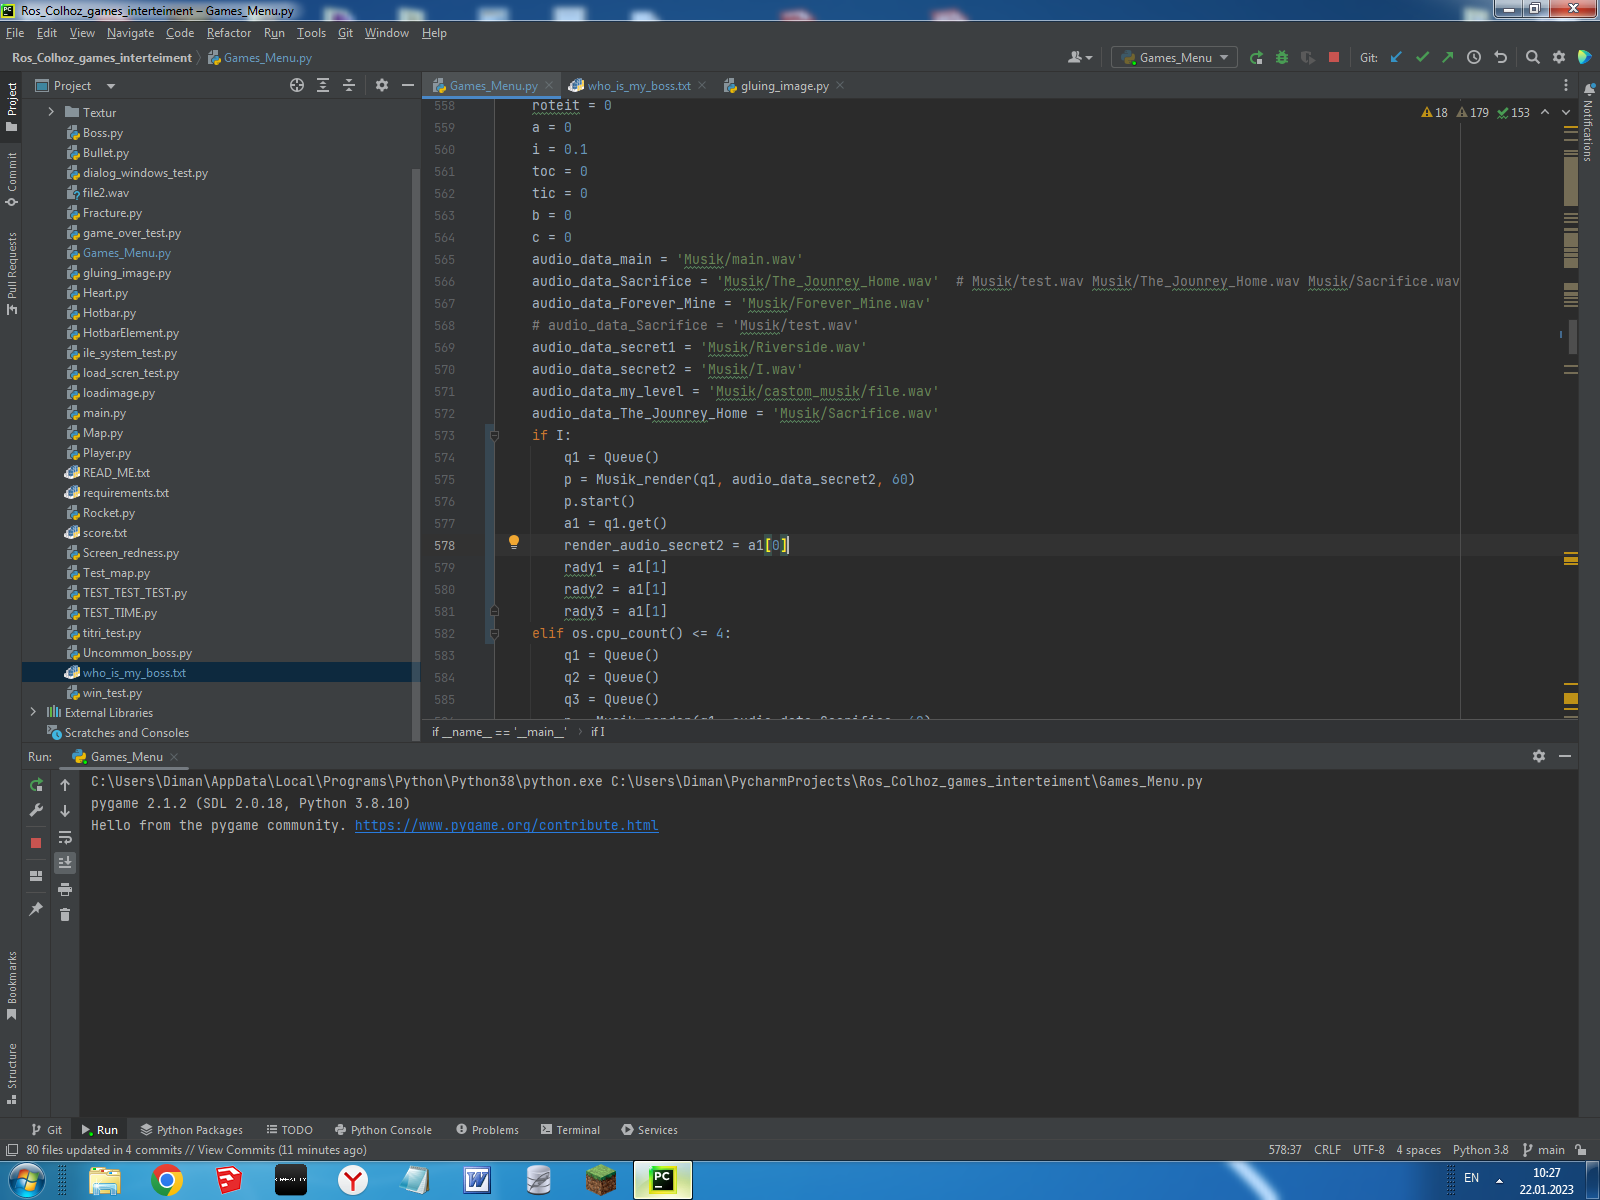
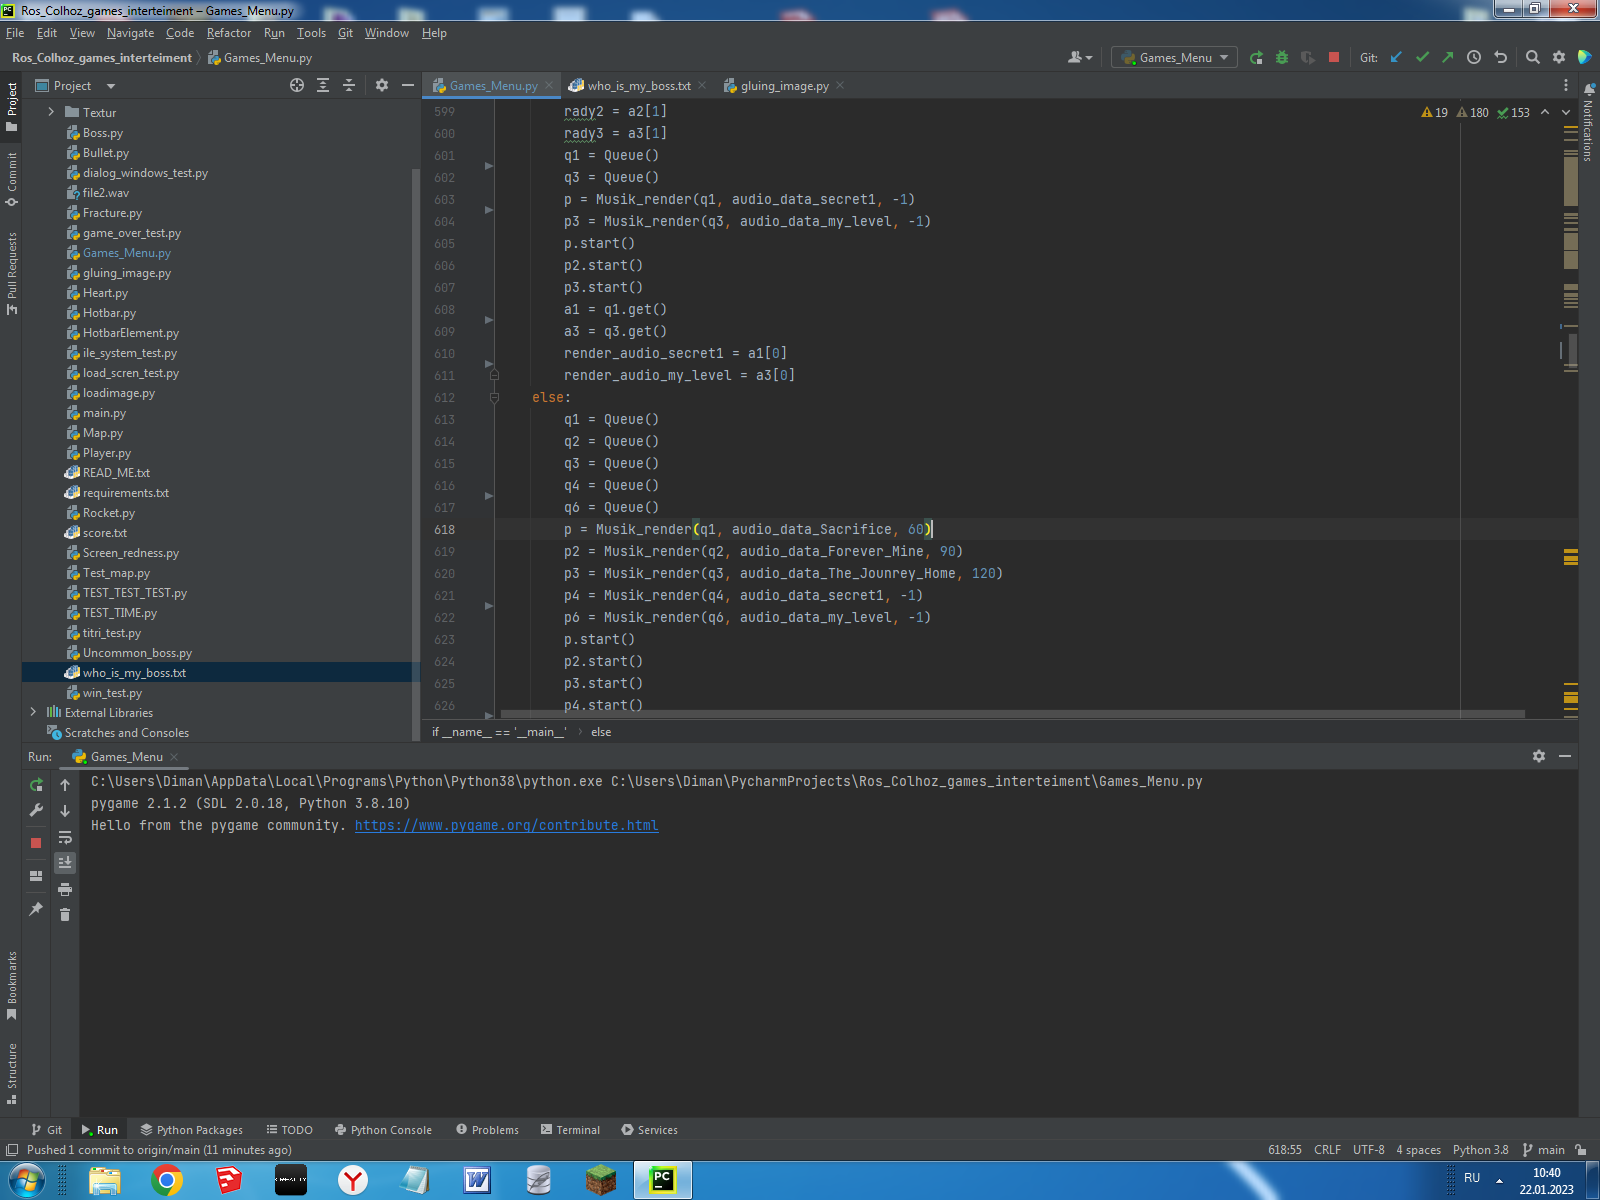
update 0.4.0.5.5 оптимизация рендера I 3

diff --git a/Games_Menu.py b/Games_Menu.py
@@ -545,7 +545,7 @@ if __name__ == '__main__':
     complite_hard = False
     final2 = False
     status = False
-    text123 = ["Игра отстой!", "Садись, два по киберспорту!", "Не бей пожалуйста :)"]  # любой текст окончания игры
+    text123 = ["Игра отстой!", "Садись, два по киберспорту!", "Не бей пожалуйста :)", "ERROR: Oleg 715"]  # любой текст окончания игры
     restart_text = ["пострадать ещё раз!", "хочу ещё!"]
     text_over = random.choice(text123)
     text_restart = random.choice(restart_text)
@@ -599,50 +599,41 @@ if __name__ == '__main__':
         rady2 = a2[1]
         rady3 = a3[1]
         q1 = Queue()
-        q2 = Queue()
         q3 = Queue()
         p = Musik_render(q1, audio_data_secret1, -1)
-        p2 = Musik_render(q2, audio_data_secret2, -1)
         p3 = Musik_render(q3, audio_data_my_level, -1)
         p.start()
         p2.start()
         p3.start()
         a1 = q1.get()
-        a2 = q2.get()
         a3 = q3.get()
         render_audio_secret1 = a1[0]
-        render_audio_secret2 = a2[0]
         render_audio_my_level = a3[0]
     else:
         q1 = Queue()
         q2 = Queue()
         q3 = Queue()
         q4 = Queue()
-        q5 = Queue()
         q6 = Queue()
         p = Musik_render(q1, audio_data_Sacrifice, 60)
         p2 = Musik_render(q2, audio_data_Forever_Mine, 90)
         p3 = Musik_render(q3, audio_data_The_Jounrey_Home, 120)
         p4 = Musik_render(q4, audio_data_secret1, -1)
-        p5 = Musik_render(q5, audio_data_secret2, -1)
         p6 = Musik_render(q6, audio_data_my_level, -1)
         p.start()
         p2.start()
         p3.start()
         p4.start()
-        p5.start()
         p6.start()
         a1 = q1.get()
         a2 = q2.get()
         a3 = q3.get()
         a4 = q4.get()
-        a5 = q5.get()
         a6 = q6.get()
         render_audio_Sacrifice = a1[0]
         render_audio_The_Forever_Mine = a2[0]
         render_audio_The_Jounrey_Home = a3[0]
         render_audio_secret1 = a4[0]
-        render_audio_secret2 = a5[0]
         render_audio_my_level = a6[0]
         rady1 = a1[1]
         rady2 = a2[1]
